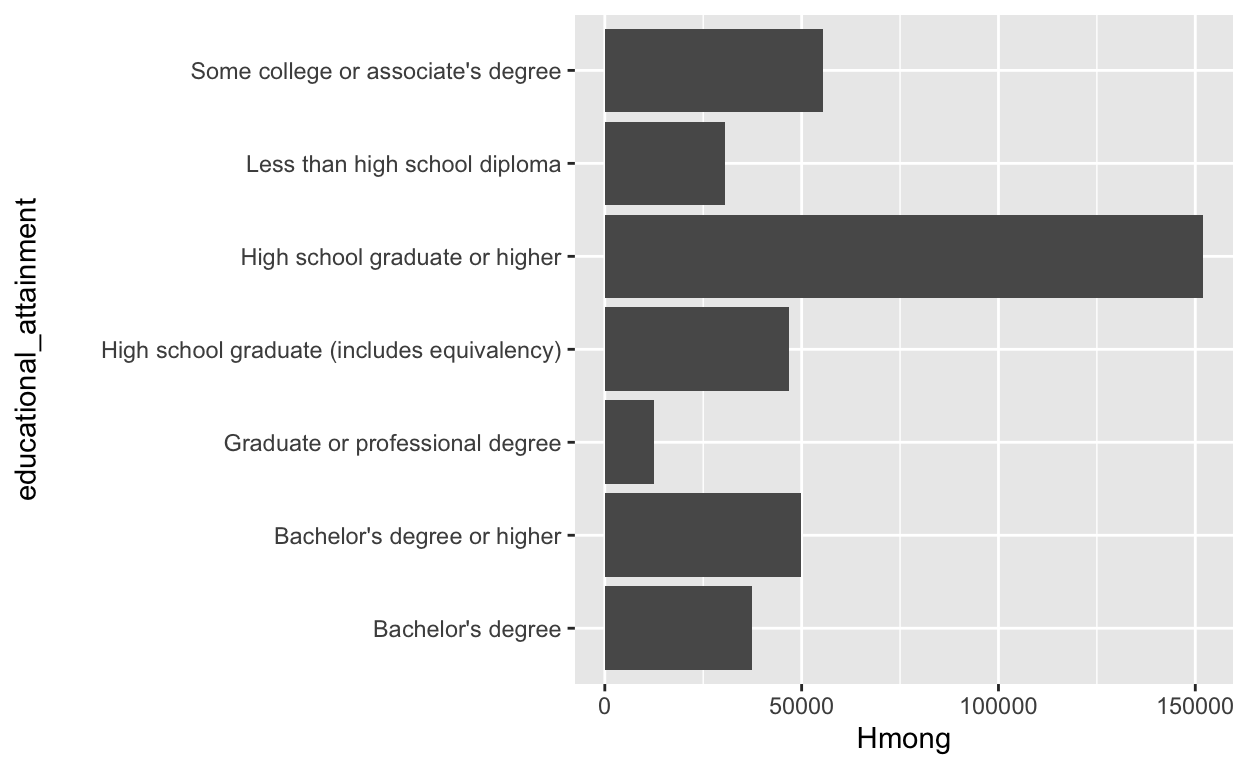
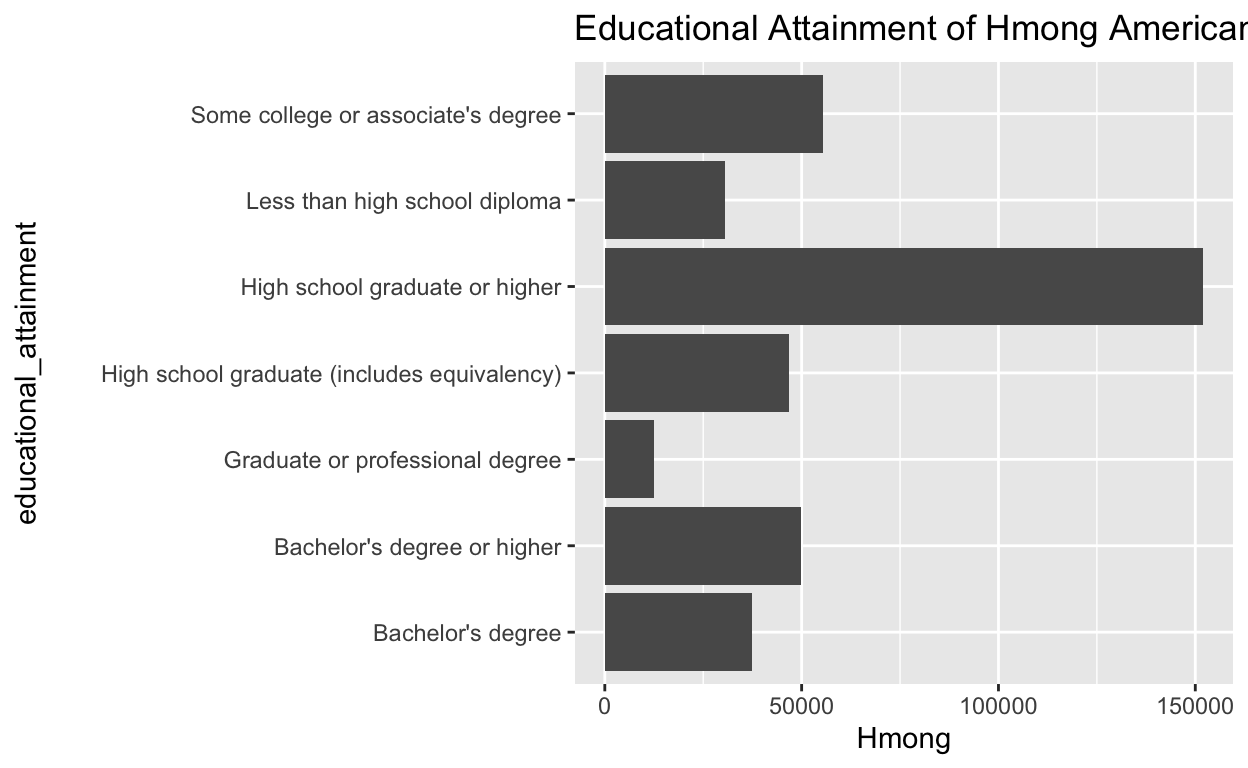
AHHH

diff --git a/index.html b/index.html
@@ -115,7 +115,7 @@ code span.wa { color: #5e5e5e; font-style: italic; } /* Warning */
   <!--/radix_placeholder_rmarkdown_metadata-->
   
   <script type="text/json" id="radix-resource-manifest">
-  {"type":"character","attributes":{},"value":["data/acs2022.csv","data/decennial2020.csv","data/race2020.csv","index_files/anchor-4.2.2/anchor.min.js","index_files/bowser-1.9.3/bowser.min.js","index_files/distill-2.2.21/template.v2.js","index_files/figure-html5/unnamed-chunk-1-1.png","index_files/figure-html5/unnamed-chunk-1-2.png","index_files/figure-html5/unnamed-chunk-1-3.png","index_files/figure-html5/unnamed-chunk-1-4.png","index_files/figure-html5/unnamed-chunk-1-5.png","index_files/figure-html5/unnamed-chunk-1-6.png","index_files/header-attrs-2.17/header-attrs.js","index_files/header-attrs-2.24/header-attrs.js","index_files/jquery-3.6.0/jquery-3.6.0.js","index_files/jquery-3.6.0/jquery-3.6.0.min.js","index_files/jquery-3.6.0/jquery-3.6.0.min.map","index_files/popper-2.6.0/popper.min.js","index_files/tippy-6.2.7/tippy-bundle.umd.min.js","index_files/tippy-6.2.7/tippy-light-border.css","index_files/tippy-6.2.7/tippy.css","index_files/tippy-6.2.7/tippy.umd.min.js","index_files/webcomponents-2.0.0/webcomponents.js"]}
+  {"type":"character","attributes":{},"value":["data/acs2022.csv","data/decennial2020.csv","data/race2020.csv","index_files/anchor-4.2.2/anchor.min.js","index_files/bowser-1.9.3/bowser.min.js","index_files/distill-2.2.21/template.v2.js","index_files/figure-html5/unnamed-chunk-1-1.png","index_files/figure-html5/unnamed-chunk-1-2.png","index_files/figure-html5/unnamed-chunk-1-3.png","index_files/figure-html5/unnamed-chunk-1-4.png","index_files/figure-html5/unnamed-chunk-1-5.png","index_files/figure-html5/unnamed-chunk-1-6.png","index_files/figure-html5/unnamed-chunk-2-1.png","index_files/figure-html5/unnamed-chunk-2-2.png","index_files/header-attrs-2.17/header-attrs.js","index_files/header-attrs-2.24/header-attrs.js","index_files/jquery-3.6.0/jquery-3.6.0.js","index_files/jquery-3.6.0/jquery-3.6.0.min.js","index_files/jquery-3.6.0/jquery-3.6.0.min.map","index_files/popper-2.6.0/popper.min.js","index_files/tippy-6.2.7/tippy-bundle.umd.min.js","index_files/tippy-6.2.7/tippy-light-border.css","index_files/tippy-6.2.7/tippy.css","index_files/tippy-6.2.7/tippy.umd.min.js","index_files/webcomponents-2.0.0/webcomponents.js"]}
   </script>
   <!--radix_placeholder_navigation_in_header-->
   <!--/radix_placeholder_navigation_in_header-->
@@ -1524,103 +1524,29 @@ code span.wa { color: #5e5e5e; font-style: italic; } /* Warning */
 <h2 id="milestone-3-example-use-of-disagreggated-census-data">Milestone 3: Example use of disagreggated census data</h2>
 <div class="layout-chunk" data-layout="l-body">
 <div class="sourceCode">
-<pre class="sourceCode r"><code class="sourceCode r"><span><span class='kw'><a href='https://rdrr.io/r/base/library.html'>library</a></span><span class='op'>(</span><span class='va'><a href='https://tidyverse.tidyverse.org'>tidyverse</a></span><span class='op'>)</span></span>
-<span><span class='va'>acs2022</span> <span class='op'>&lt;-</span> <span class='fu'><a href='https://readr.tidyverse.org/reference/read_delim.html'>read_csv</a></span><span class='op'>(</span><span class='st'>"data/acs2022.csv"</span><span class='op'>)</span></span>
-<span></span>
-<span><span class='va'>acs2022select</span> <span class='op'>&lt;-</span> <span class='va'>acs2022</span> <span class='op'>|&gt;</span> <span class='fu'><a href='https://dplyr.tidyverse.org/reference/select.html'>select</a></span><span class='op'>(</span><span class='op'>-</span><span class='st'>"United States!!Asian Indian alone!!Margin of Error"</span>,</span>
-<span>                                   <span class='op'>-</span><span class='st'>"United States!!Bangladeshi alone!!Margin of Error"</span>,</span>
-<span>                                   <span class='op'>-</span><span class='st'>"United States!!Cambodian alone!!Margin of Error"</span>,</span>
-<span>                                   <span class='op'>-</span><span class='st'>"United States!!Chinese alone!!Margin of Error"</span>,</span>
-<span>                                   <span class='op'>-</span><span class='st'>"United States!!Chinese, except Taiwanese alone!!Margin of Error"</span>,</span>
-<span>                                   <span class='op'>-</span><span class='st'>"United States!!Taiwanese alone!!Margin of Error"</span>,</span>
-<span>                                   <span class='op'>-</span><span class='st'>"United States!!Filipino alone!!Margin of Error"</span>,</span>
-<span>                                   <span class='op'>-</span><span class='st'>"United States!!Hmong alone!!Margin of Error"</span>,</span>
-<span>                                   <span class='op'>-</span><span class='st'>"United States!!Indonesian alone!!Margin of Error"</span>,</span>
-<span>                                   <span class='op'>-</span><span class='st'>"United States!!Japanese alone!!Margin of Error"</span>,</span>
-<span>                                   <span class='op'>-</span><span class='st'>"United States!!Korean alone!!Margin of Error"</span>,</span>
-<span>                                   <span class='op'>-</span><span class='st'>"United States!!Laotian alone!!Margin of Error"</span>,</span>
-<span>                                   <span class='op'>-</span><span class='st'>"United States!!Pakistani alone!!Margin of Error"</span>,</span>
-<span>                                   <span class='op'>-</span><span class='st'>"United States!!Thai alone!!Margin of Error"</span>,</span>
-<span>                                   <span class='op'>-</span><span class='st'>"United States!!Vietnamese alone!!Margin of Error"</span>,</span>
-<span>                                   <span class='op'>-</span><span class='st'>"United States!!Asian Indian alone or in any combination!!Estimate"</span><span class='op'>:</span><span class='op'>-</span><span class='st'>"United States!!Nepalese alone or in any combination!!Margin of Error"</span><span class='op'>)</span> <span class='op'>|&gt;</span></span>
-<span>  <span class='fu'><a href='https://dplyr.tidyverse.org/reference/rename.html'>rename</a></span><span class='op'>(</span><span class='st'>"Asian_Indian"</span> <span class='op'>=</span> <span class='st'>"United States!!Asian Indian alone!!Estimate"</span>,</span>
-<span>         <span class='st'>"Bangladeshi"</span> <span class='op'>=</span> <span class='st'>"United States!!Bangladeshi alone!!Estimate"</span>,</span>
-<span>         <span class='st'>"Cambodian"</span> <span class='op'>=</span> <span class='st'>"United States!!Cambodian alone!!Estimate"</span>,</span>
-<span>         <span class='st'>"Chinese"</span> <span class='op'>=</span> <span class='st'>"United States!!Chinese alone!!Estimate"</span>,</span>
-<span>         <span class='st'>"Chinese_except_Taiwanese"</span> <span class='op'>=</span> <span class='st'>"United States!!Chinese, except Taiwanese alone!!Estimate"</span>,</span>
-<span>         <span class='st'>"Taiwanese"</span> <span class='op'>=</span> <span class='st'>"United States!!Taiwanese alone!!Estimate"</span>,</span>
-<span>         <span class='st'>"Filipino"</span> <span class='op'>=</span> <span class='st'>"United States!!Filipino alone!!Estimate"</span>,</span>
-<span>         <span class='st'>"Hmong"</span> <span class='op'>=</span> <span class='st'>"United States!!Hmong alone!!Estimate"</span>,</span>
-<span>         <span class='st'>"Indonesian"</span> <span class='op'>=</span> <span class='st'>"United States!!Indonesian alone!!Estimate"</span>,</span>
-<span>         <span class='st'>"Japanese"</span> <span class='op'>=</span> <span class='st'>"United States!!Japanese alone!!Estimate"</span>,</span>
-<span>         <span class='st'>"Korean"</span> <span class='op'>=</span> <span class='st'>"United States!!Korean alone!!Estimate"</span>,</span>
-<span>         <span class='st'>"Laotian"</span> <span class='op'>=</span> <span class='st'>"United States!!Laotian alone!!Estimate"</span>,</span>
-<span>         <span class='st'>"Pakistani"</span> <span class='op'>=</span> <span class='st'>"United States!!Pakistani alone!!Estimate"</span>,</span>
-<span>         <span class='st'>"Thai"</span> <span class='op'>=</span> <span class='st'>"United States!!Thai alone!!Estimate"</span>,</span>
-<span>         <span class='st'>"Vietnamese"</span> <span class='op'>=</span> <span class='st'>"United States!!Vietnamese alone!!Estimate"</span><span class='op'>)</span></span>
-<span></span>
-<span><span class='va'>educational_attainment</span> <span class='op'>&lt;-</span> <span class='va'>acs2022select</span><span class='op'>[</span><span class='fu'><a href='https://rdrr.io/r/base/c.html'>c</a></span><span class='op'>(</span><span class='fl'>97</span><span class='op'>:</span><span class='fl'>103</span>, <span class='fl'>106</span><span class='op'>)</span>, <span class='op'>]</span> <span class='op'>|&gt;</span> <span class='fu'><a href='https://dplyr.tidyverse.org/reference/rename.html'>rename</a></span><span class='op'>(</span><span class='st'>"educational_attainment"</span> <span class='op'>=</span> <span class='st'>"Label (Grouping)"</span><span class='op'>)</span></span>
-<span></span>
-<span><span class='va'>educational_attainment</span></span></code></pre>
-</div>
-<pre><code># A tibble: 8 × 16
-  educational_attainment    Asian_Indian Bangladeshi Cambodian Chinese
-  &lt;chr&gt;                     &lt;chr&gt;        &lt;chr&gt;       &lt;chr&gt;     &lt;chr&gt;  
-1     Population 25 years … 3,143,573    167,034     198,053   3,356,…
-2         Less than high s… 6.6%         13.8%       28.2%     14.8%  
-3         High school grad… 7.0%         20.8%       25.4%     13.5%  
-4         Some college or … 8.4%         14.0%       22.3%     12.5%  
-5         Bachelor&#39;s degree 31.9%        25.3%       18.2%     27.4%  
-6         Graduate or prof… 46.2%        26.1%       5.9%      31.8%  
-7         High school grad… 93.4%        86.2%       71.8%     85.2%  
-8         Bachelor&#39;s degre… 78.0%        51.5%       24.1%     59.2%  
-# ℹ 11 more variables: Chinese_except_Taiwanese &lt;chr&gt;,
-#   Taiwanese &lt;chr&gt;, Filipino &lt;chr&gt;, Hmong &lt;chr&gt;, Indonesian &lt;chr&gt;,
-#   Japanese &lt;chr&gt;, Korean &lt;chr&gt;, Laotian &lt;chr&gt;, Pakistani &lt;chr&gt;,
-#   Thai &lt;chr&gt;, Vietnamese &lt;chr&gt;</code></pre>
-<div class="sourceCode">
-<pre class="sourceCode r"><code class="sourceCode r"><span><span class='va'>educational_attainment</span> <span class='op'>&lt;-</span> <span class='va'>acs2022select</span><span class='op'>[</span><span class='fu'><a href='https://rdrr.io/r/base/c.html'>c</a></span><span class='op'>(</span><span class='fl'>98</span><span class='op'>:</span><span class='fl'>103</span>, <span class='fl'>106</span><span class='op'>)</span>, <span class='op'>]</span> <span class='op'>|&gt;</span> <span class='fu'><a href='https://dplyr.tidyverse.org/reference/rename.html'>rename</a></span><span class='op'>(</span><span class='st'>"educational_attainment"</span> <span class='op'>=</span> <span class='st'>"Label (Grouping)"</span><span class='op'>)</span></span>
-<span></span>
-<span><span class='va'>educational_attainment</span></span></code></pre>
-</div>
-<pre><code># A tibble: 7 × 16
-  educational_attainment    Asian_Indian Bangladeshi Cambodian Chinese
-  &lt;chr&gt;                     &lt;chr&gt;        &lt;chr&gt;       &lt;chr&gt;     &lt;chr&gt;  
-1         Less than high s… 6.6%         13.8%       28.2%     14.8%  
-2         High school grad… 7.0%         20.8%       25.4%     13.5%  
-3         Some college or … 8.4%         14.0%       22.3%     12.5%  
-4         Bachelor&#39;s degree 31.9%        25.3%       18.2%     27.4%  
-5         Graduate or prof… 46.2%        26.1%       5.9%      31.8%  
-6         High school grad… 93.4%        86.2%       71.8%     85.2%  
-7         Bachelor&#39;s degre… 78.0%        51.5%       24.1%     59.2%  
-# ℹ 11 more variables: Chinese_except_Taiwanese &lt;chr&gt;,
-#   Taiwanese &lt;chr&gt;, Filipino &lt;chr&gt;, Hmong &lt;chr&gt;, Indonesian &lt;chr&gt;,
-#   Japanese &lt;chr&gt;, Korean &lt;chr&gt;, Laotian &lt;chr&gt;, Pakistani &lt;chr&gt;,
-#   Thai &lt;chr&gt;, Vietnamese &lt;chr&gt;</code></pre>
-<div class="sourceCode">
-<pre class="sourceCode r"><code class="sourceCode r"><span><span class='va'>educational_attainment</span><span class='op'>$</span><span class='va'>Asian_Indian</span> <span class='op'>&lt;-</span> <span class='fu'><a href='https://rdrr.io/r/base/c.html'>c</a></span><span class='op'>(</span><span class='fl'>207475</span>, <span class='fl'>220050</span>, <span class='fl'>264060</span>, <span class='fl'>1002799</span>, <span class='fl'>1452330</span>, <span class='fl'>2936097</span>, <span class='fl'>2451986</span><span class='op'>)</span></span>
-<span></span>
-<span><span class='va'>educational_attainment</span><span class='op'>$</span><span class='va'>Chinese</span> <span class='op'>&lt;-</span> <span class='fu'><a href='https://rdrr.io/r/base/c.html'>c</a></span><span class='op'>(</span><span class='fl'>496717</span>, <span class='fl'>453086</span>, <span class='fl'>419524</span>, <span class='fl'>919598</span>, <span class='fl'>1067271</span>, <span class='fl'>2859481</span>, <span class='fl'>1986869</span><span class='op'>)</span></span>
-<span></span>
-<span><span class='va'>educational_attainment</span><span class='op'>$</span><span class='va'>Hmong</span> <span class='op'>&lt;-</span> <span class='fu'><a href='https://rdrr.io/r/base/c.html'>c</a></span><span class='op'>(</span><span class='fl'>30487</span>, <span class='fl'>46735</span>, <span class='fl'>55498</span>, <span class='fl'>37424</span>, <span class='fl'>12414</span>, <span class='fl'>152072</span>, <span class='fl'>49838</span><span class='op'>)</span></span>
-<span></span>
-<span><span class='va'>Chinese_plot</span> <span class='op'>&lt;-</span> <span class='va'>educational_attainment</span> <span class='op'>|&gt;</span></span>
+<pre class="sourceCode r"><code class="sourceCode r"><span><span class='va'>Chinese_plot</span> <span class='op'>&lt;-</span> <span class='va'>educational_attainment</span> <span class='op'>|&gt;</span></span>
 <span>  <span class='fu'><a href='https://ggplot2.tidyverse.org/reference/ggplot.html'>ggplot</a></span><span class='op'>(</span><span class='fu'><a href='https://ggplot2.tidyverse.org/reference/aes.html'>aes</a></span><span class='op'>(</span>x <span class='op'>=</span> <span class='va'>Chinese</span>,</span>
 <span>             y <span class='op'>=</span> <span class='va'>educational_attainment</span><span class='op'>)</span><span class='op'>)</span> <span class='op'>+</span></span>
+<span>  <span class='fu'><a href='https://ggplot2.tidyverse.org/reference/labs.html'>labs</a></span><span class='op'>(</span>x <span class='op'>=</span> <span class='st'>"Chinese population"</span>,</span>
+<span>       y <span class='op'>=</span> <span class='st'>"Level of educational attainment"</span>,</span>
+<span>       title <span class='op'>=</span> <span class='st'>"Educational Attainment of Chinese Americans"</span><span class='op'>)</span> <span class='op'>+</span></span>
 <span>  <span class='fu'><a href='https://ggplot2.tidyverse.org/reference/geom_bar.html'>geom_col</a></span><span class='op'>(</span><span class='op'>)</span></span>
 <span></span>
-<span><span class='va'>Chinese_plot</span></span></code></pre>
+<span><span class='fu'><a href='https://rdrr.io/r/base/print.html'>print</a></span><span class='op'>(</span><span class='va'>Chinese_plot</span><span class='op'>)</span></span></code></pre>
 </div>
-<img src="index_files/figure-html5/unnamed-chunk-1-1.png" width="624" />
+<img src="index_files/figure-html5/unnamed-chunk-2-1.png" width="624" />
 <div class="sourceCode">
 <pre class="sourceCode r"><code class="sourceCode r"><span><span class='va'>Hmong_plot</span> <span class='op'>&lt;-</span> <span class='va'>educational_attainment</span> <span class='op'>|&gt;</span></span>
 <span>  <span class='fu'><a href='https://ggplot2.tidyverse.org/reference/ggplot.html'>ggplot</a></span><span class='op'>(</span><span class='fu'><a href='https://ggplot2.tidyverse.org/reference/aes.html'>aes</a></span><span class='op'>(</span>x <span class='op'>=</span> <span class='va'>Hmong</span>,</span>
 <span>             y <span class='op'>=</span> <span class='va'>educational_attainment</span><span class='op'>)</span><span class='op'>)</span> <span class='op'>+</span></span>
+<span>  <span class='fu'><a href='https://ggplot2.tidyverse.org/reference/labs.html'>labs</a></span><span class='op'>(</span>x <span class='op'>=</span> <span class='st'>"Hmong population"</span>,</span>
+<span>       y <span class='op'>=</span> <span class='st'>"Level of educational attainment"</span>,</span>
+<span>       title <span class='op'>=</span> <span class='st'>"Educational Attainment of Hmong Americans"</span><span class='op'>)</span> <span class='op'>+</span></span>
 <span>  <span class='fu'><a href='https://ggplot2.tidyverse.org/reference/geom_bar.html'>geom_col</a></span><span class='op'>(</span><span class='op'>)</span></span>
 <span></span>
-<span><span class='va'>Hmong_plot</span></span></code></pre>
+<span><span class='fu'><a href='https://rdrr.io/r/base/print.html'>print</a></span><span class='op'>(</span><span class='va'>Hmong_plot</span><span class='op'>)</span></span></code></pre>
 </div>
-<p><img src="index_files/figure-html5/unnamed-chunk-1-2.png" width="624" /></p>
+<p><img src="index_files/figure-html5/unnamed-chunk-2-2.png" width="624" /></p>
 </div>
 <div class="layout-chunk" data-layout="l-body">
 <div class="sourceCode">
@@ -1814,26 +1740,28 @@ code span.wa { color: #5e5e5e; font-style: italic; } /* Warning */
 </tbody>
 </table>
 </div>
-<p>From these first two visualizations, it is clear that the first part of my hypothesis — that Chinese Americans and Hmong Americans will have quite disparate levels of educational attainment — is likely true. The data point which exemplifies this best is the percentage of these respective populations which hold a bachelor’s degree. Whereas nearly 60% of the Chinese American population holds a bachelor’s degree or higher (value from percentage which hold a bachelor’s degree + percentage which hold a graduate or professional degree), half of that proportion, or less than 30%, of the Hmong American population, holds a bachelor’s degree or higher.</p>
+<p>From these first two visualizations, it is clear that the first part of my hypothesis — that Chinese Americans and Hmong Americans will have quite disparate levels of educational attainment — is likely true. The data point which exemplifies this best is the percentage of these respective populations which hold a bachelor’s degree or higher. Whereas 59.2% of the Chinese American population holds a bachelor’s degree or higher, about half of that percentage, or 27.3%, of the Hmong American population holds a bachelor’s degree or higher. This large disparity indicates that the average/aggregate of the two will likely fall somewhere near the percentage of the general American population that holds a bachelor’s degree or higher (35.7%, according to the 2020 U.S. Census).</p>
+<h2 id="regression">Regression</h2>
 <div class="layout-chunk" data-layout="l-body">
 <div class="sourceCode">
 <pre class="sourceCode r"><code class="sourceCode r"><span><span class='va'>regression_data</span> <span class='op'>=</span> <span class='fu'><a href='https://rdrr.io/r/base/data.frame.html'>data.frame</a></span><span class='op'>(</span>asian <span class='op'>=</span> <span class='fu'><a href='https://rdrr.io/r/base/c.html'>c</a></span><span class='op'>(</span><span class='fl'>0.592</span>, <span class='fl'>0.273</span><span class='op'>)</span>,</span>
 <span>                             general <span class='op'>=</span> <span class='fl'>0.357</span><span class='op'>)</span></span>
-<span><span class='va'>model</span> <span class='op'>=</span> <span class='fu'><a href='https://rdrr.io/r/stats/lm.html'>lm</a></span><span class='op'>(</span><span class='va'>general</span> <span class='op'>~</span> <span class='va'>asian</span>, <span class='va'>regression_data</span><span class='op'>)</span></span>
+<span><span class='va'>model</span> <span class='op'>=</span> <span class='fu'><a href='https://rdrr.io/r/stats/lm.html'>lm</a></span><span class='op'>(</span><span class='va'>asian</span> <span class='op'>~</span> <span class='va'>general</span>, <span class='va'>regression_data</span><span class='op'>)</span></span>
 <span></span>
 <span><span class='va'>model</span></span></code></pre>
 </div>
 <pre><code>
 Call:
-lm(formula = general ~ asian, data = regression_data)
+lm(formula = asian ~ general, data = regression_data)
 
 Coefficients:
-(Intercept)        asian  
-   3.57e-01     6.59e-17  </code></pre>
+(Intercept)      general  
+     0.4325           NA  </code></pre>
 </div>
 <h2 id="conclusion">Conclusion</h2>
-<p>The percentage of Americans who hold a bachelor’s degree or higher is 35.7% (2020 U.S. Census). The “aggregate” percentage of the AANHPI population, when measured between Chinese Americans and Hmong Americans, who hold a bachelor’s degree or higher is 43.25%. Running a regression on these percentages produces a coefficient of 0.357, a positive, relatively insignificant coefficient, which I hypothesized we would find. This coefficient proves that the aggregate AANHPI level of educational attainment is somewhere in between that of the average citizen, effectively proving that AANHPI population is not a monolith (i.e. fares much better or much worse than the general U.S. population), at least when it comes to educational attainment.</p>
-<div class="sourceCode" id="cb4"><pre class="sourceCode r distill-force-highlighting-css"><code class="sourceCode r"></code></pre></div>
+<p>In this regression, the dependent variable is the “aggregate” percentage of the AANHPI population that holds a bachelor’s degree or higher (as determined by taking the average of the respective percentages of the Chinese American and Hmong American population that hold a bachelor’s degree or higher). The independent variable is the percentage of the total U.S. population that holds a bachelor’s degree or higher. The resulting coefficient is 0.4325, which is statistically significant but cannot be interpreted causally as this was a cross-sectional experiment designed to visualize the disparities between various AANHPI ethnicities’ levels of educational attainment and then compare this against that of the total U.S. population, not to attribute any sort of causation between these various percentages.</p>
+<p>The coefficient of 0.4325 is a positive, relatively insignificant coefficient, which I hypothesized the results would return. This coefficient proves that the aggregate AANHPI level of educational attainment is somewhere in between that of the average citizen, effectively proving that AANHPI population is not a monolith (i.e. fares much better or much worse than the general U.S. population), at least when it comes to educational attainment.</p>
+<div class="sourceCode" id="cb2"><pre class="sourceCode r distill-force-highlighting-css"><code class="sourceCode r"></code></pre></div>
 <!--radix_placeholder_article_footer-->
 <!--/radix_placeholder_article_footer-->
 </div>
